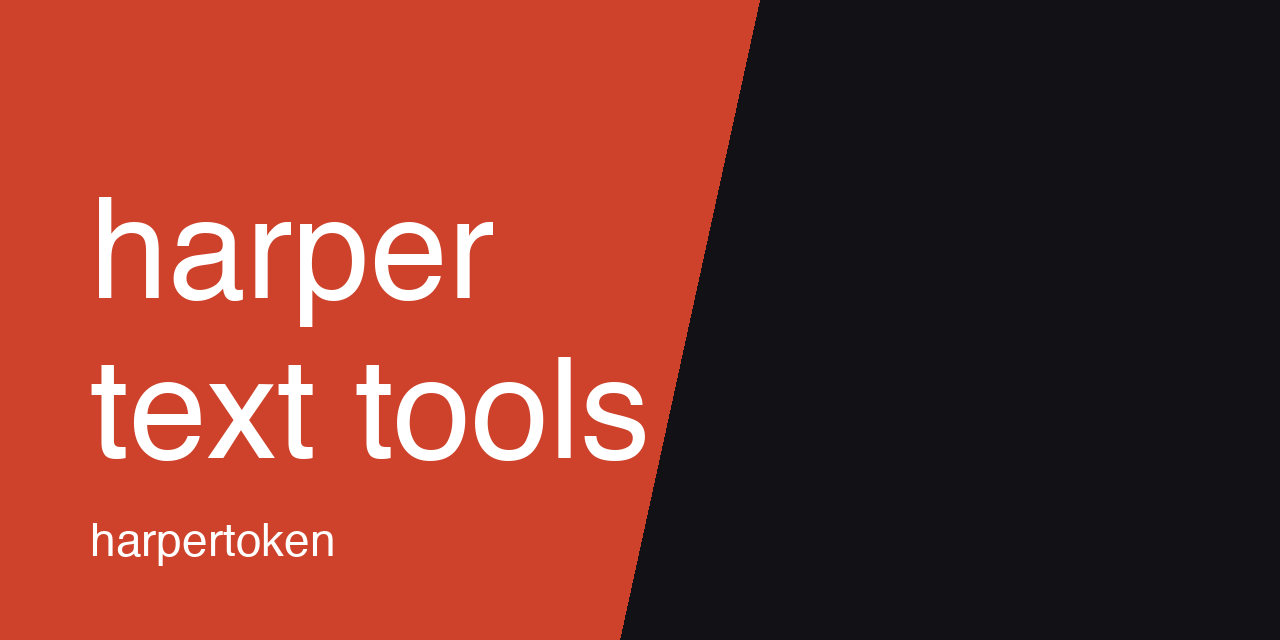
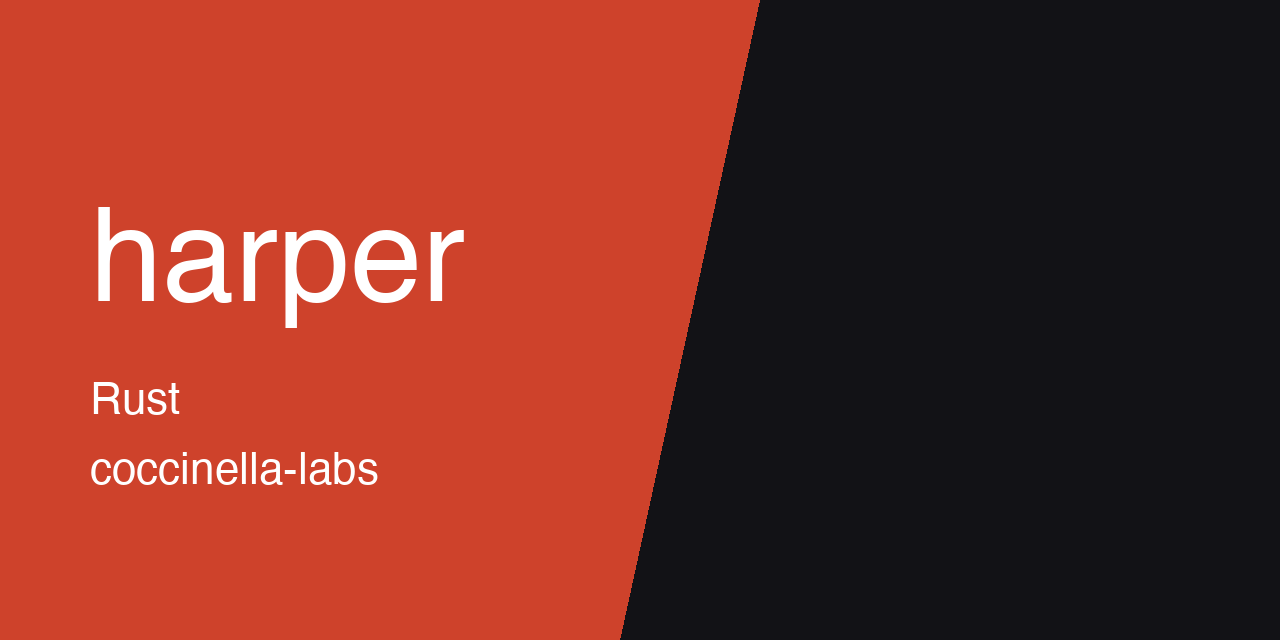
[docs] move thumbnail to coccinella-labs (#759)
Fresh thumbnail with proper language color and coccinella-labs name.
README raw URLs moved from basebin/harpertoken.

Changed region(s): [[0.0625, 0.5625, 0.5, 0.7812], [0.0625, 0.3125, 0.4062, 0.5312], [0.0625, 0.8125, 0.25, 0.875]]

diff --git a/README.md b/README.md
@@ -1,5 +1,5 @@
 <p align="center">
-  <img src="https://raw.githubusercontent.com/harpertoken/harper/main/.github/assets/thumbnail.png" alt="harper" width="100%">
+  <img src="https://raw.githubusercontent.com/Coccinella-Labs/harper/main/.github/assets/thumbnail.png" alt="harper" width="100%">
 </p>
 
 # harper
